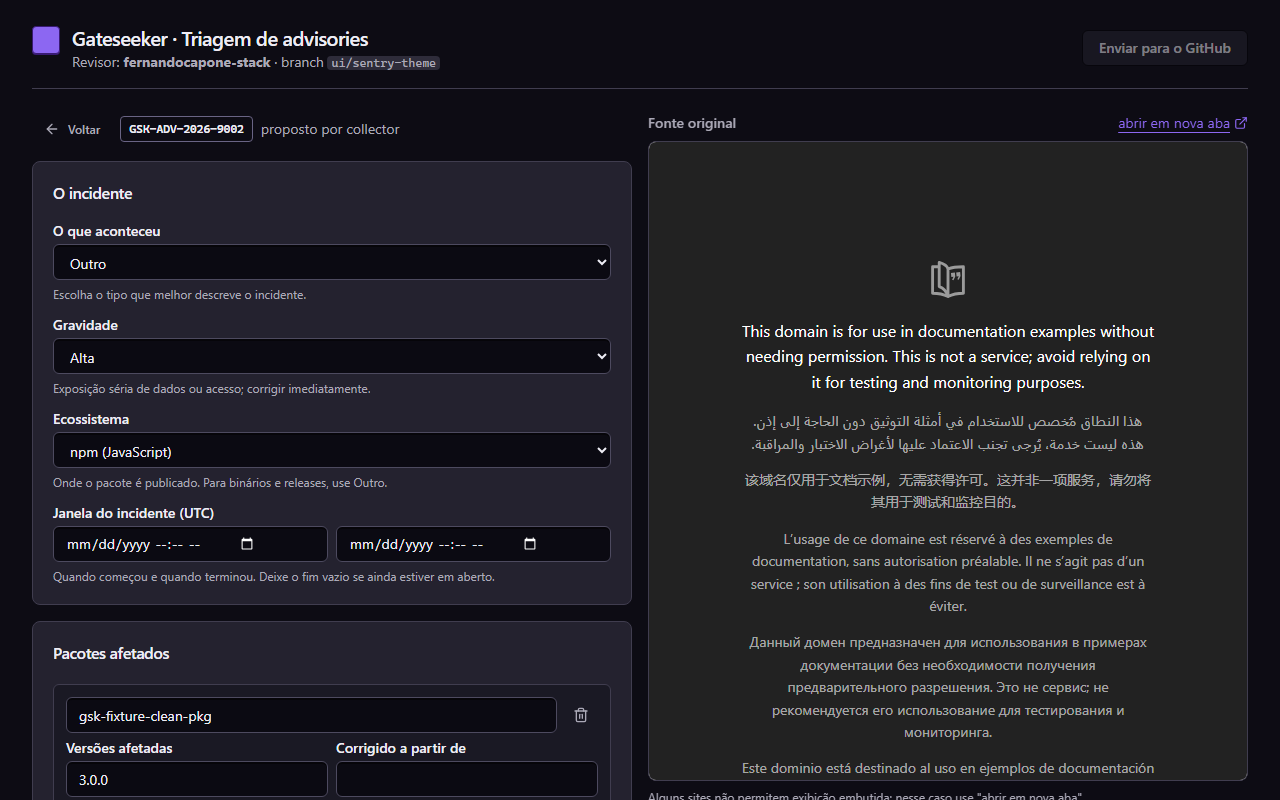
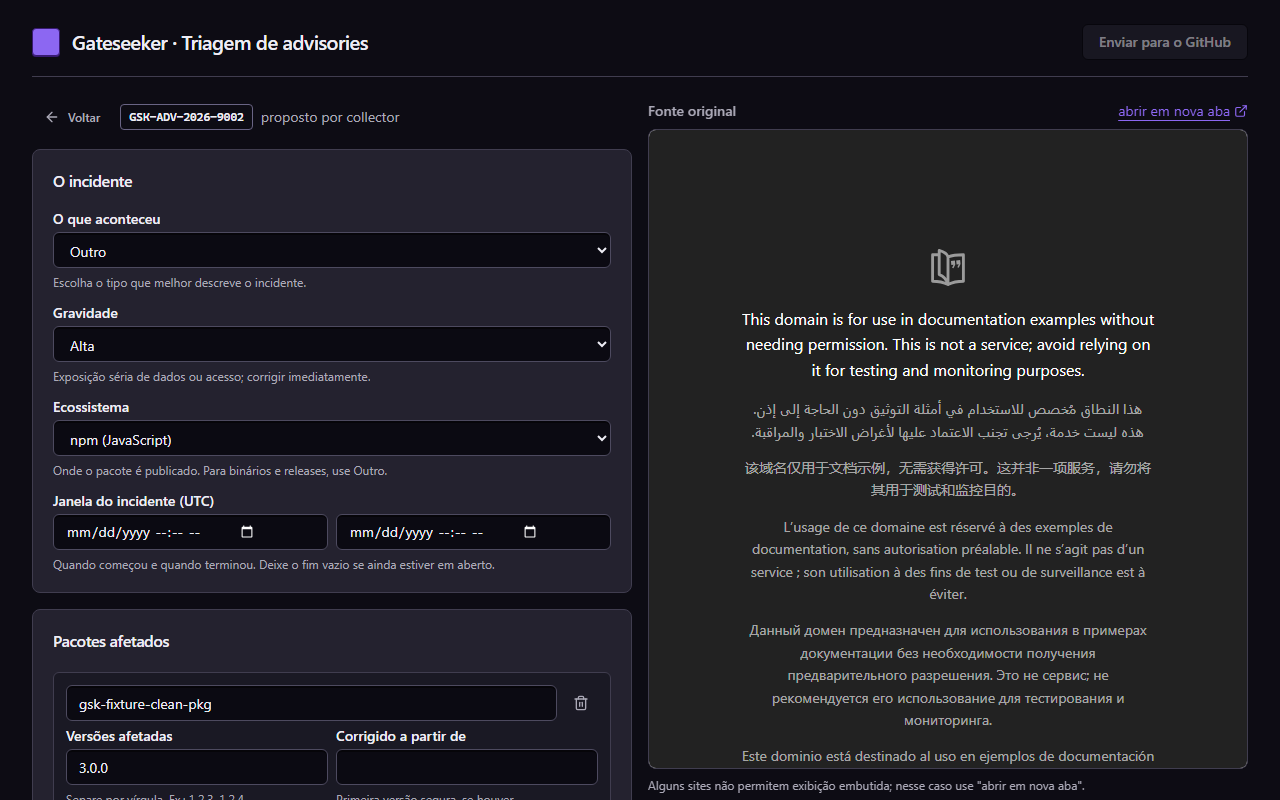
ui: drop reviewer, branch and batch from the header
The PO is the only reviewer and the git history already records who
decided what and on which branch, so the header keeps only the product
name. The server still returns gitUser, branch and mergedIntelBranch and
still records the reviewer on every decision; the end-to-end test keeps
checking reviewed_by in the saved record and no longer looks for the
header line. Screenshots regenerated.

diff --git a/ui/src/App.tsx b/ui/src/App.tsx
@@ -50,16 +50,9 @@ export function App() {
   return (
     <div className="mx-auto max-w-7xl px-4 py-6 md:px-8">
       <header className="mb-6 flex flex-wrap items-center justify-between gap-3 border-b pb-4">
-        <div className="flex items-start gap-3">
-          <span aria-hidden="true" className="mt-0.5 inline-block size-7 shrink-0 rounded-sm border border-primary-stroke bg-primary shadow-solid-sm [--shadow-color:var(--primary-stroke)]" />
-          <div>
+        <div className="flex items-center gap-3">
+          <span aria-hidden="true" className="inline-block size-7 shrink-0 rounded-sm border border-primary-stroke bg-primary shadow-solid-sm [--shadow-color:var(--primary-stroke)]" />
           <h1 className="text-xl font-semibold tracking-tight">Gateseeker · Triagem de advisories</h1>
-          <p className="text-sm text-muted-foreground">
-            Revisor: <strong>{state?.gitUser ?? "—"}</strong>
-            {state?.branch && <> · branch <code className="rounded bg-muted px-1">{state.branch}</code></>}
-            {state?.mergedIntelBranch && <> · lote <code className="rounded bg-muted px-1">{state.mergedIntelBranch.replace("origin/", "")}</code> incorporado</>}
-          </p>
-          </div>
         </div>
         <div className="flex items-center gap-2">
           {state && state.unpushed > 0 && <Badge variant="moderate">{state.unpushed} decisão(ões) ainda não enviada(s)</Badge>}

diff --git a/e2e/triage.spec.ts b/e2e/triage.spec.ts
@@ -13,10 +13,8 @@ test("the page refuses to work without the session token", async ({ page }) => {
   await expect(page.getByText(/precisa do endereço completo/)).toBeVisible();
 });
 
-test("lists the pending records with reviewer and draft badge", async ({ page }) => {
+test("lists the pending records with the draft badge", async ({ page }) => {
   await page.goto(ENTRY);
-  await expect(page.getByText("Revisor:")).toBeVisible();
-  await expect(page.getByText("E2E Reviewer")).toBeVisible();
   await expect(page.getByTestId("pending-GSK-ADV-2026-9002")).toBeVisible();
   await expect(page.getByTestId("pending-GSK-ADV-2026-9003")).toBeVisible();
   await expect(page.getByTestId("pending-GSK-ADV-2026-9003").getByText("rascunho pré-preenchido")).toBeVisible();
